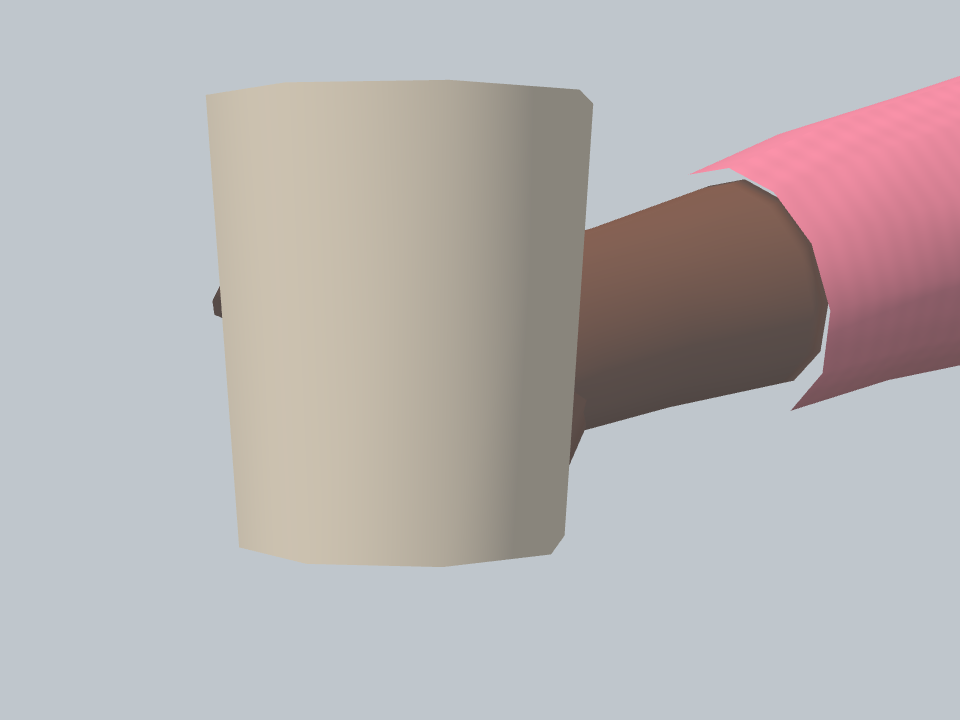
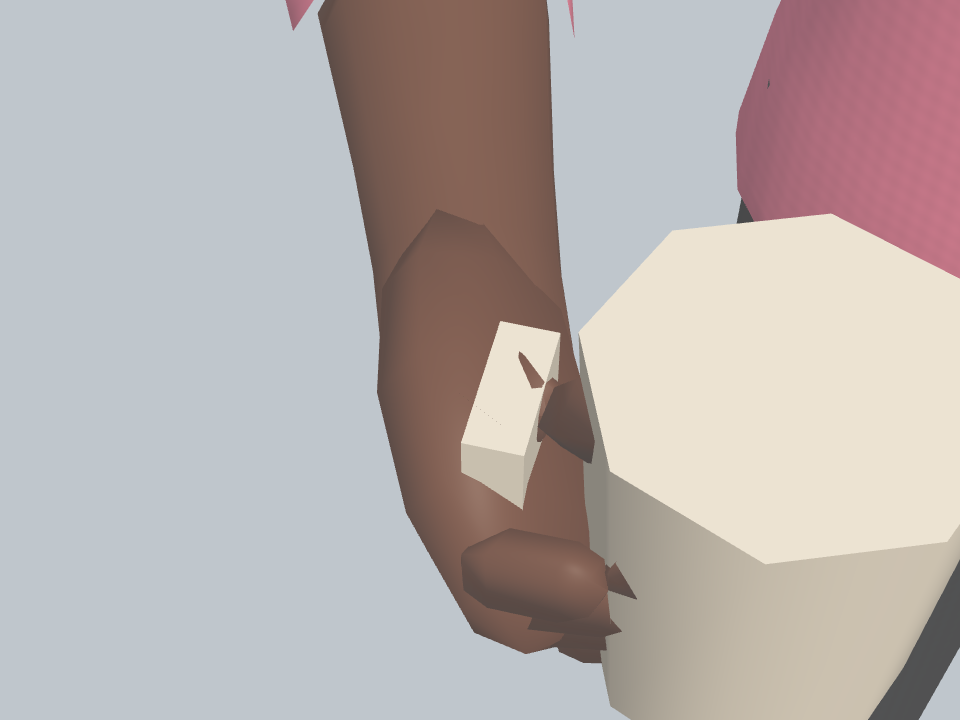
Refs #2016 Nya närbilder: kopp från tumsidan, tom hand och frukt från utsidan, så att fingrarna syns

diff --git a/tools/avatargrip.html b/tools/avatargrip.html
@@ -39,8 +39,10 @@ const finger = (g, side = 'R') => g.avatar.material.userData.u.uFing.value.slice
 /** A shot of ghost i's right hand from `view` ('front' | 'side' | 'above' | 'far'): `dist` metres away, in the figure's frame (+z ahead of it). */
 window.__shot = (i, view = 'side', dist = 0.5, which = 'R') => {
   const g = i === 'mirror' ? mirror : ghosts[i], p = g.avatar.hand(which, new THREE.Vector3());
-  const off = { front: [0, 0.05, 1], side: [which === 'R' ? 1 : -1, 0.05, 0.25], above: [0.1, 1, 0.5], far: [0.4, 0.2, 1], back: [0, 0.1, -1] }[view];
+  const hv = view.startsWith('h:') ? view.slice(2).split(',').map(Number) : null; // a direction in the hand bone's frame (x out of the palm side for the left hand, -y along the fingers, +z the thumb's side)
+  const off = hv ?? { front: [0, 0.05, 1], side: [which === 'R' ? 1 : -1, 0.05, 0.25], above: [0.1, 1, 0.5], far: [0.4, 0.2, 1], back: [0, 0.1, -1] }[view];
   const d = new THREE.Vector3(...off).normalize().multiplyScalar(dist);
+  if (hv) d.applyQuaternion(g.avatar.bones['hand' + which].getWorldQuaternion(new THREE.Quaternion()));
   cam.fov = view === 'far' ? 30 : 22; cam.updateProjectionMatrix();
   // the figure faces +z in the world here (root rotated by pi: the avatar's own frame faces -z of the root)
   cam.position.copy(p).add(d); cam.lookAt(p);

diff --git a/docs/verification/2016/README.md b/docs/verification/2016/README.md
@@ -1,6 +1,6 @@
 # #2016 fingers close round held things
 
 Close-ups from `tools/avatargrip.html` (`tools/browsertest.sh node tools/avatargripbrowser.cjs GAME OUT`, SwiftShader):
-`*-side` / `*-above` close-ups of the right hand with a cup (cylinder grip), a Nerf gun (pistol), a food item (pinch) and an empty hand (relaxed);
+`*-side` / `*-above` close-ups of the right hand (cup-side: from the thumb side; empty-side: from the outer side; food-side: from the outer side, fingertips on both sides of the apple) with a cup (cylinder grip), a Nerf gun (pistol), a food item (pinch) and an empty hand (relaxed); `cup-below` the cup from below the fingertips;
 `*-normal` at 2.2 m; `mirror-cup-side` our own mirror image; `preview-*` the customizer preview with each grip.
 Checks: category/weapon to grip, smooth pick-up and release (monotone, no overshoot), no page errors. Draw calls unchanged (one skinned mesh per avatar), about +320 triangles per avatar.
